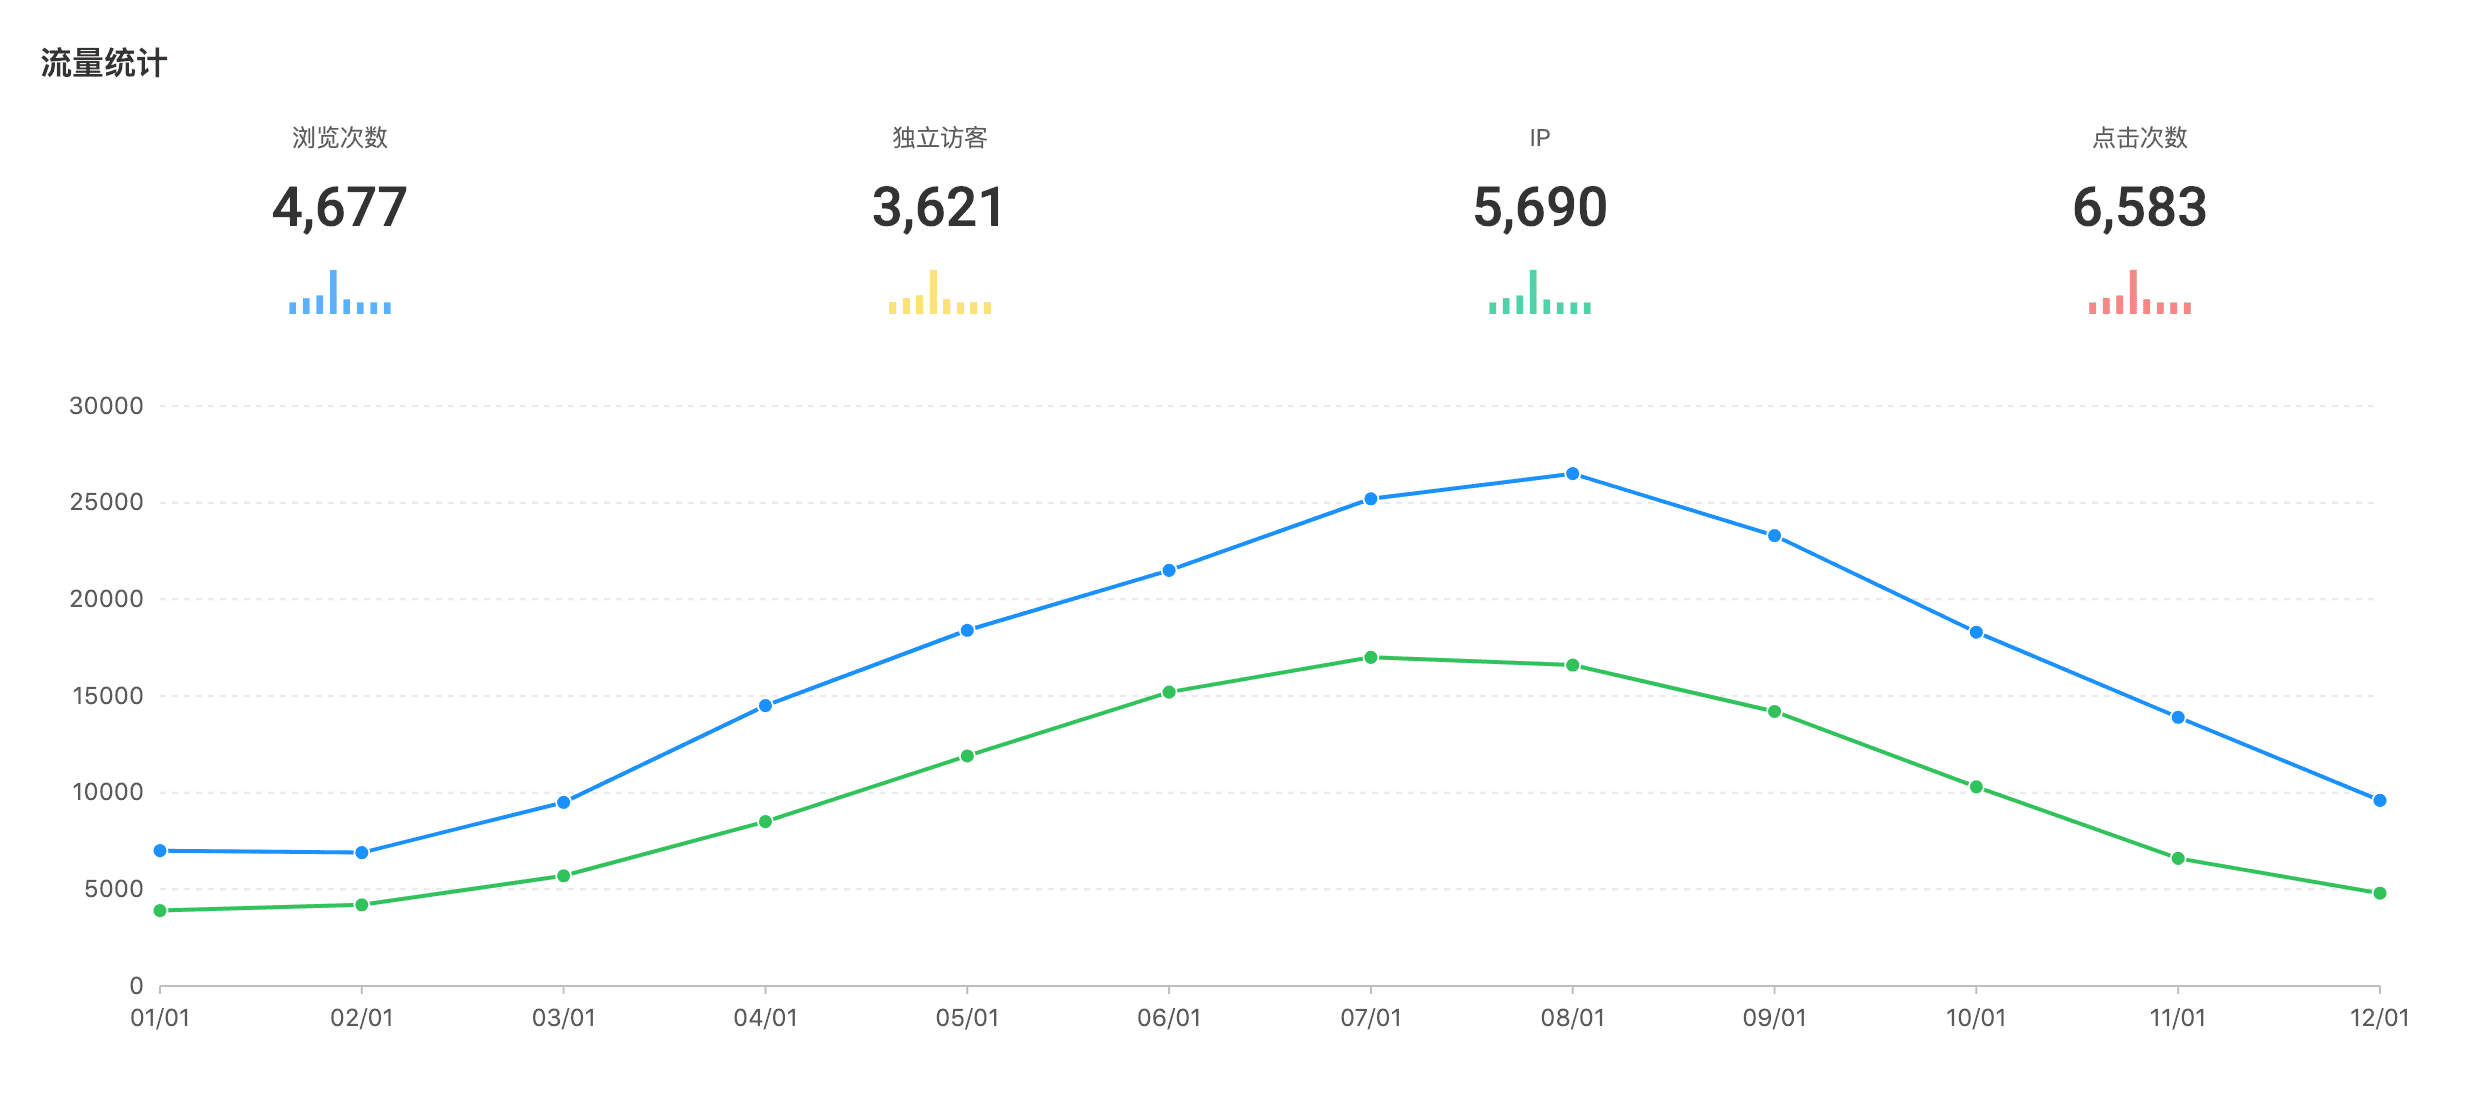
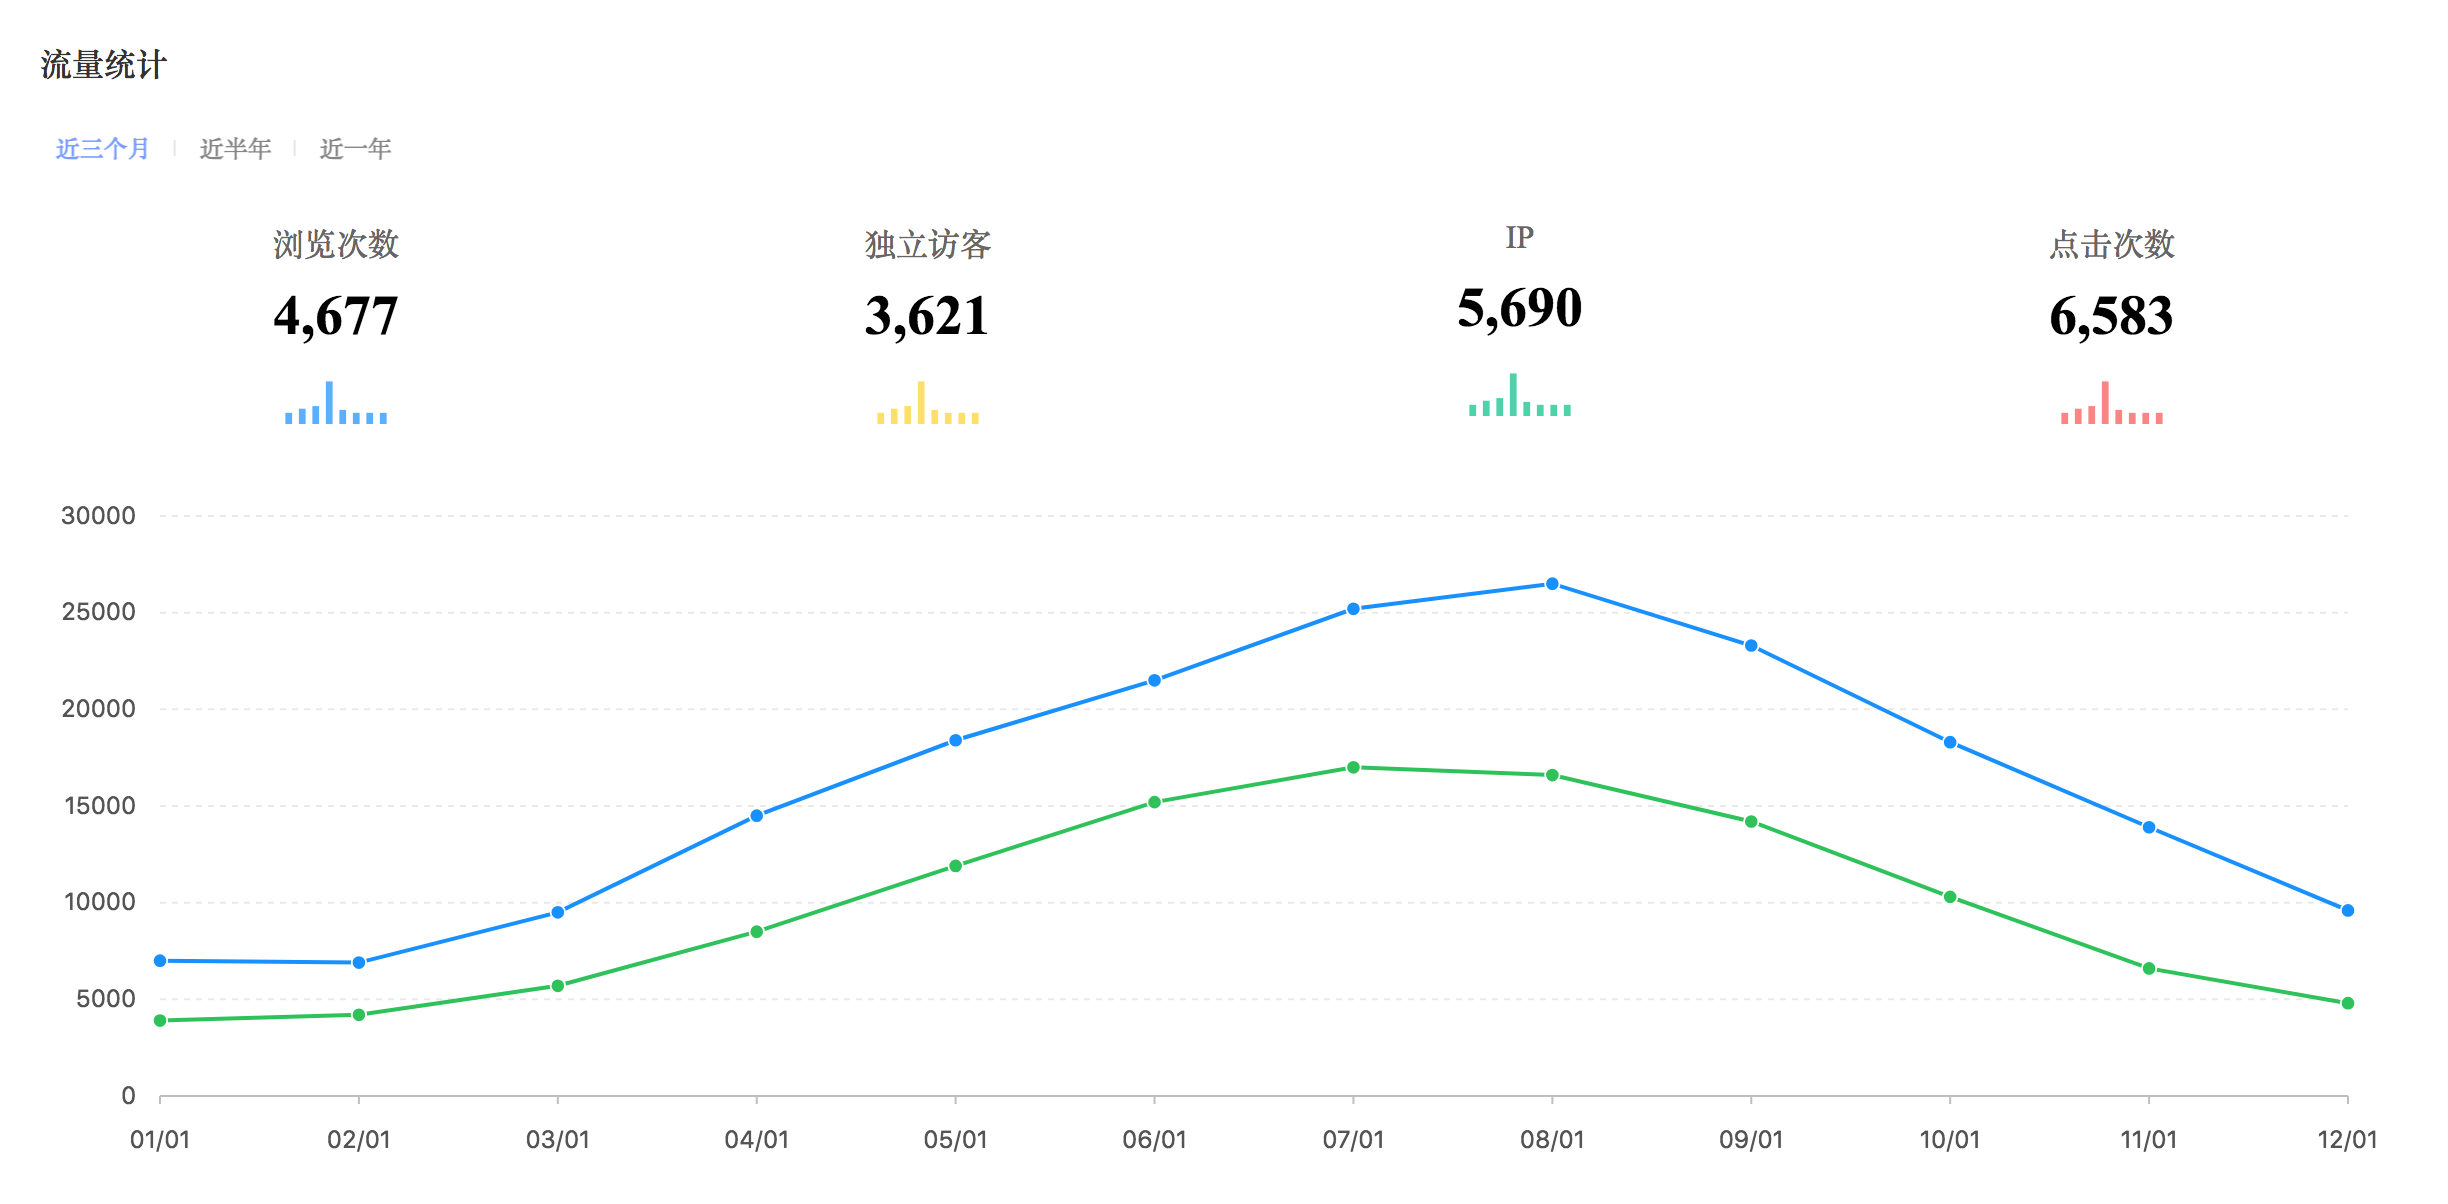
chore: fix FlowStatistics block

diff --git a/react-materials/blocks/FlowStatistics/src/Head.jsx b/react-materials/blocks/FlowStatistics/src/Head.jsx
@@ -19,7 +19,7 @@ export default class Head extends Component {
   render() {
     const { data } = this.props;
     return (
-      <Row wrap>
+      <Row wrap style={{ marginTop: '20px' }}>
         <Col xxs="12" s="12" l="6">
           <div style={styles.box}>
             <p style={styles.textLabel}>浏览次数</p>

diff --git a/react-materials/blocks/FlowStatistics/src/FlowStatistics.jsx b/react-materials/blocks/FlowStatistics/src/FlowStatistics.jsx
@@ -3,9 +3,6 @@ import IceContainer from '@icedesign/container';
 import { Tab } from '@alifd/next';
 import LineChart from './LineChart';
 import Head from './Head';
-import './FlowStatistics.scss';
-
-const TabPane = Tab.Item;
 
 const MOCK_DATA = {
   threeMonths: {
